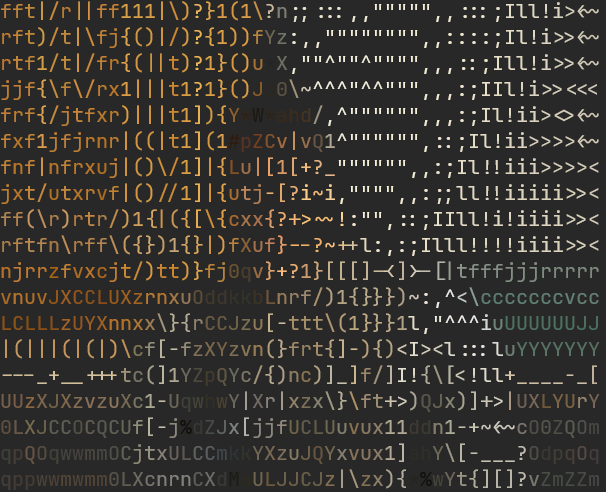
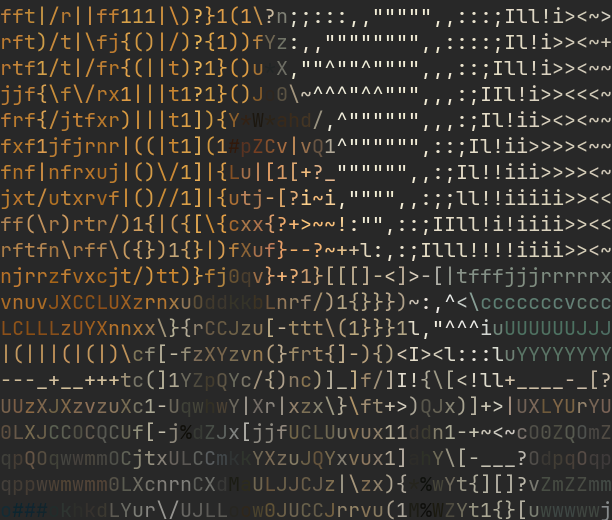
docs(ascii_art): updated example output screenshots

Changed region(s): [[0.0, 0.0, 1.0, 1.0]]

diff --git a/c/ascii_art/README.md b/c/ascii_art/README.md
@@ -12,28 +12,33 @@ A simple C program that converts images to ASCII art with optional color support
 
 ![ASCII Art Output](output/example_output_test_1.png)
 
+### ASCII Art (Colored, inverted, scale: 8)
+
+![Inverted ASCII Art Output](output/example_output_test_1_inverted.png)
+
 ### ASCII ART (Plain Text, scale: 8)
 
 ```
-fft|/r||ff111|\)?}1(1\?n;;:::,,""""",,:::;Ill!i><~
-rft)/t|\fj{()|/)?{1))fYz:,,"""""""",,::::;Il!i>><~
-rtf1/t|/fr{(||t)?1}()u*X,""^""^"""",,,::;Ill!i>><~
-jjf{\f\/rx1|||t1?1}()Jo0\~^^^"^^""",,,:;IIl!i>><<<
-frf{/jtfxr)|||t1]){Y*W*ahd/,^"""""",,,:;Il!ii><><~
-fxf1jfjrnr|((|t1](1#pZCv|vQ1^"""""",::;Il!ii>>>><~
-fnf|nfrxuj|()\/1]|{Lu|[1[+?_"""""",,:;Il!!iii>>>><
-jxt/utxrvf|()//1]|{utj-[?i~i,"""",,:;;ll!!iiiii>><
-ff(\r)rtr/)1{|({[\{cxx{?+>~~!:"",::;IIll!i!iiii>><
-rftfn\rff\({})1{}|)fXuf}--?~++l:,:;Illl!!!!iiii>><
-njrrzfvxcjt/)tt)}fj0qv}+?1}[[[]-<]>-[|tfffjjjrrrrr
-vnuvJXCCLUXzrnxuOddkkbLnrf/)1{}}})~:,^<\cccccccvcc
-LCLLLzUYXnnxx\}{rCCJzu[-ttt\(1}}}1l,"^^^iuUUUUUUJJ
-|(|||(|(|)\cf[-fzXYzvn(}frt{]-){)<I><l:::luYYYYYYY
----_+__+++tc(]1YZpQYc/{)nc)]_]f/]I!{\[<!ll+____-_[
-UUzXJXzvzuXc1-UqwhwY|Xr|xzx\}\ft+>)QJx)]+>|UXLYUrY
-0LXJCCOCQCUf[-j%dZJx[jjfUCLUuvux11ddn1-+~<~cO0ZQOm
-qpQOqwwmmOCjtxULCCmkkYXzuJQYxvux1]ahY\[-___?OdpqOq
-qppwwmwmm0LXcnrnCXdMaULJJCJz|\zx){*%wYt{][]?vZmZZm
+fft|/r||ff111|\)?}1(1\?n;;:::,,""""",,:::;Ill!i><~>
+rft)/t|\fj{()|/)?{1))fYz:,,"""""""",,::::;Il!i>><~+
+rtf1/t|/fr{(||t)?1}()u*X,""^""^"""",,,::;Ill!i>><~~
+jjf{\f\/rx1|||t1?1}()Jo0\~^^^"^^""",,,:;IIl!i>><<<~
+frf{/jtfxr)|||t1]){Y*W*ahd/,^"""""",,,:;Il!ii><><~~
+fxf1jfjrnr|((|t1](1#pZCv|vQ1^"""""",::;Il!ii>>>><~~
+fnf|nfrxuj|()\/1]|{Lu|[1[+?_"""""",,:;Il!!iii>>>><~
+jxt/utxrvf|()//1]|{utj-[?i~i,"""",,:;;ll!!iiiii>><<
+ff(\r)rtr/)1{|({[\{cxx{?+>~~!:"",::;IIll!i!iiii>><<
+rftfn\rff\({})1{}|)fXuf}--?~++l:,:;Illl!!!!iiii>><~
+njrrzfvxcjt/)tt)}fj0qv}+?1}[[[]-<]>-[|tfffjjjrrrrrx
+vnuvJXCCLUXzrnxuOddkkbLnrf/)1{}}})~:,^<\cccccccvccc
+LCLLLzUYXnnxx\}{rCCJzu[-ttt\(1}}}1l,"^^^iuUUUUUUJJJ
+|(|||(|(|)\cf[-fzXYzvn(}frt{]-){)<I><l:::luYYYYYYYY
+---_+__+++tc(]1YZpQYc/{)nc)]_]f/]I!{\[<!ll+____-_[?
+UUzXJXzvzuXc1-UqwhwY|Xr|xzx\}\ft+>)QJx)]+>|UXLYUrYU
+0LXJCCOCQCUf[-j%dZJx[jjfUCLUuvux11ddn1-+~<~cO0ZQOmZ
+qpQOqwwmmOCjtxULCCmkkYXzuJQYxvux1]ahY\[-___?OdpqOqp
+qppwwmwmm0LXcnrnCXdMaULJJCJz|\zx){*%wYt{][]?vZmZZmm
+o###okhkdLYur\/UJLLoow0JUCCJrrvu(1M%WZYt1{}[uwwwwwj
 ```
 
 ## Features
